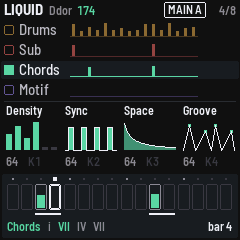
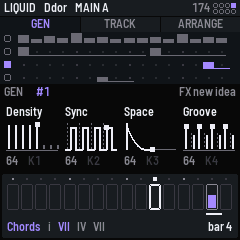
README, manual and site: the new pages, new screenshots, and thanks to SEQ-4
New screenshots of GEN, TRACK and ARRANGE (and the manual's: Chords picked,
GLO held, a part queued, the grid), made by tests/gx1_shots.s4 through
tools/manual_shots.sh. The README and the landing page say where GX-1 comes
from: SEQ-4 by devrvega gave it a solid basis, and for a conventional
sequencer, SEQ-4 itself. The controls: HOME through the pages, a MIDI
controller on channel 16.

Claude-Session: https://claude.ai/code/session_0168RyNbmnuQVMP7jBY8hzRA

diff --git a/tools/make_pages.py b/tools/make_pages.py
@@ -76,14 +76,15 @@ code { font-size: .88em; }
 <h1>GX-1</h1>
 <div class="bars" aria-hidden="true">__BARS__</div>
 <p class="sub">Generative, genre-aware MIDI for the M-VAVE FM-1</p>
-<p class="lede">Pick a style (Liquid, Jungle, Dub techno, Acid, Deep house, IDM and fourteen more), press a button, and GX-1
+<p class="lede">Pick a style (Liquid, Jungle, Dub techno, Acid, Deep house, R&B and nineteen more), press a button, and GX-1
 composes four tracks that fit together: drums, a sub bass, chords and a lead. Then steer it: mutate a track, lock the ones
 you like, re-roll the rest, turn the macros, move between song parts, change key. It plays out over USB MIDI to your DAW,
 a Tonverk or any synth, and SEQ-4's full sequencer is underneath for editing by hand.</p>
+<p class="lede">Built on <a href="https://github.com/devrvega/SEQ-4">SEQ-4</a> by devrvega, which gave it a solid basis. Want a conventional sequencer for the FM-1? Use SEQ-4 itself.</p>
 <div class="shots">
-  <img src="img/gx1-gen.png" width="240" height="240" alt="The GEN page: four tracks in amber, coral, green and violet, four macros, and the drum steps">
-  <img src="img/gx1-chords.png" width="240" height="240" alt="Chords selected: the progression in Roman numerals, the chord playing lit">
-  <img src="img/gx1-glo.png" width="240" height="240" alt="GLO held: the six song parts as tiles above the white keys">
+  <img src="img/gx1-gen.png" width="240" height="240" alt="GEN: the four tracks, the idea number, the macros and the selected track's steps">
+  <img src="img/gx1-track.png" width="240" height="240" alt="TRACK: the drum lanes, the track's own macros and MUTATE">
+  <img src="img/gx1-arrange.png" width="240" height="240" alt="ARRANGE: the energy of the six parts and the parts on W1 to W6">
 </div>
 <nav class="ways" aria-label="Get GX-1">
   <a href="install/"><strong>Install <em class="v">v__VERSION__</em></strong><span>From Chrome or Edge, with the FM-1 connected by USB. Nothing to install on the computer.</span></a>

diff --git a/README.md b/README.md
@@ -5,12 +5,25 @@
 [![License: GPL-3.0](https://img.shields.io/badge/license-GPL--3.0-blue)](LICENSE)
 
 GX-1 turns the M-VAVE FM-1 into a genre-aware generative MIDI instrument. Pick a style (Liquid, Jungle, Dub techno,
-Acid, Deep house, IDM and fourteen more), press a button, and it composes four tracks that fit together: **drums**,
+Acid, Deep house, R&B and nineteen more), press a button, and it composes four tracks that fit together: **drums**,
 a **sub** bass, **chords** and an **upper** part (lead, arpeggio or motif). Then you steer it. Mutate a track, lock
 the ones you like, re-roll the rest, turn the macros, move between six song parts, change key. Everything plays out
 over USB MIDI, and [SEQ-4](https://github.com/devrvega/SEQ-4)'s full sequencer is underneath for editing by hand.
 
-![GX-1's GEN page](docs/img/gx1-gen.png) ![The progression](docs/img/gx1-chords.png) ![The song parts](docs/img/gx1-glo.png)
+![GEN: the four tracks, the idea, the macros](docs/img/gx1-gen.png) ![TRACK: one track, its own macros, MUTATE](docs/img/gx1-track.png) ![ARRANGE: the energy and the six parts](docs/img/gx1-arrange.png)
+
+There's a player for the phone and the computer too, the same engine in the browser:
+[fm1-genre-ator](https://github.com/jhallahan/fm1-genre-ator).
+
+> ### Built on SEQ-4
+>
+> GX-1 stands on [**SEQ-4**](https://github.com/devrvega/SEQ-4) by [devrvega](https://github.com/devrvega), a
+> measured, tested, MIDI-only four-sequencer firmware for the FM-1 with a host simulator, USB clock, CC lanes and a
+> careful manual. It gave GX-1 a solid basis: the generator writes SEQ-4 patterns, the parity tests run in SEQ-4's
+> simulator, and SEQ-4's full sequencer is still underneath (SEQ). Thank you.
+>
+> **Want a conventional sequencer?** Steps, six modes, an arranger and no generator: use
+> [SEQ-4](https://github.com/devrvega/SEQ-4) itself.
 
 | | |
 |---|---|
@@ -50,6 +63,7 @@ mode the installer can reach. See the manual's [recovery section](docs/GX1_MANUA
 3. **ALGORITHM** for the family, **GLO + ALGORITHM** for the style.
 4. Black keys **1–4** select a track: **SEL** mutates it, **ENV** locks it, **GLO + FX** re-rolls it.
 5. **GLO + W9–W14**: the six song parts, at the next bar. **EDIT** undoes.
+6. **HOME** steps through the pages: **GEN**, **TRACK** (one track up close) and **ARRANGE** (the parts).
 
 ## Twenty-five styles in six families
 
@@ -77,7 +91,9 @@ The music engine is [fm1-genre-ator](https://github.com/jhallahan/fm1-genre-ator
 | K1–K4 · GLO + K1–K4 | Density, Sync, Space, Groove · Human, Tension, Complex, Evolve |
 | ALGORITHM · PRESETS · SELECT | Family (GLO: style) · idea number · tempo |
 | OCT− · OCT+ | The key down · up |
-| SEQ · HOME | SEQ-4's grid · back to GEN |
+| HOME · HOME twice | The next page (GEN, TRACK, ARRANGE) · the patterns |
+| SEQ | SEQ-4's grid (HOME comes back) |
+| A MIDI controller | Channel 16: the macros, mutes, locks, new ideas and parts ([GX1_MIDI.md](docs/GX1_MIDI.md)) |
 
 GX-1 is a fork of SEQ-4, and everything in the [SEQ-4 manual](docs/MANUAL.md) is still there underneath.
 

diff --git a/docs/GX1_MANUAL.md b/docs/GX1_MANUAL.md
@@ -40,7 +40,8 @@ This manual covers version 0.2.
    variation, break, build, drop. The part changes at the next bar.
 8. **EDIT** undoes anything you didn't like.
 
-![The GEN page: Liquid in D Dorian, the four tracks, the macros and the drum steps](img/gx1-gen.png)
+![The GEN page: Liquid in D Dorian, the pages on top, the four tracks, the macros and the drum steps](img/gx1-gen.png)
+![TRACK: the drum lanes, the track's own macros and MUTATE](img/gx1-track.png) ![ARRANGE: the energy of the six parts, the parts on W1–W6](img/gx1-arrange.png)
 
 ## 2. Installing the latest version
 
